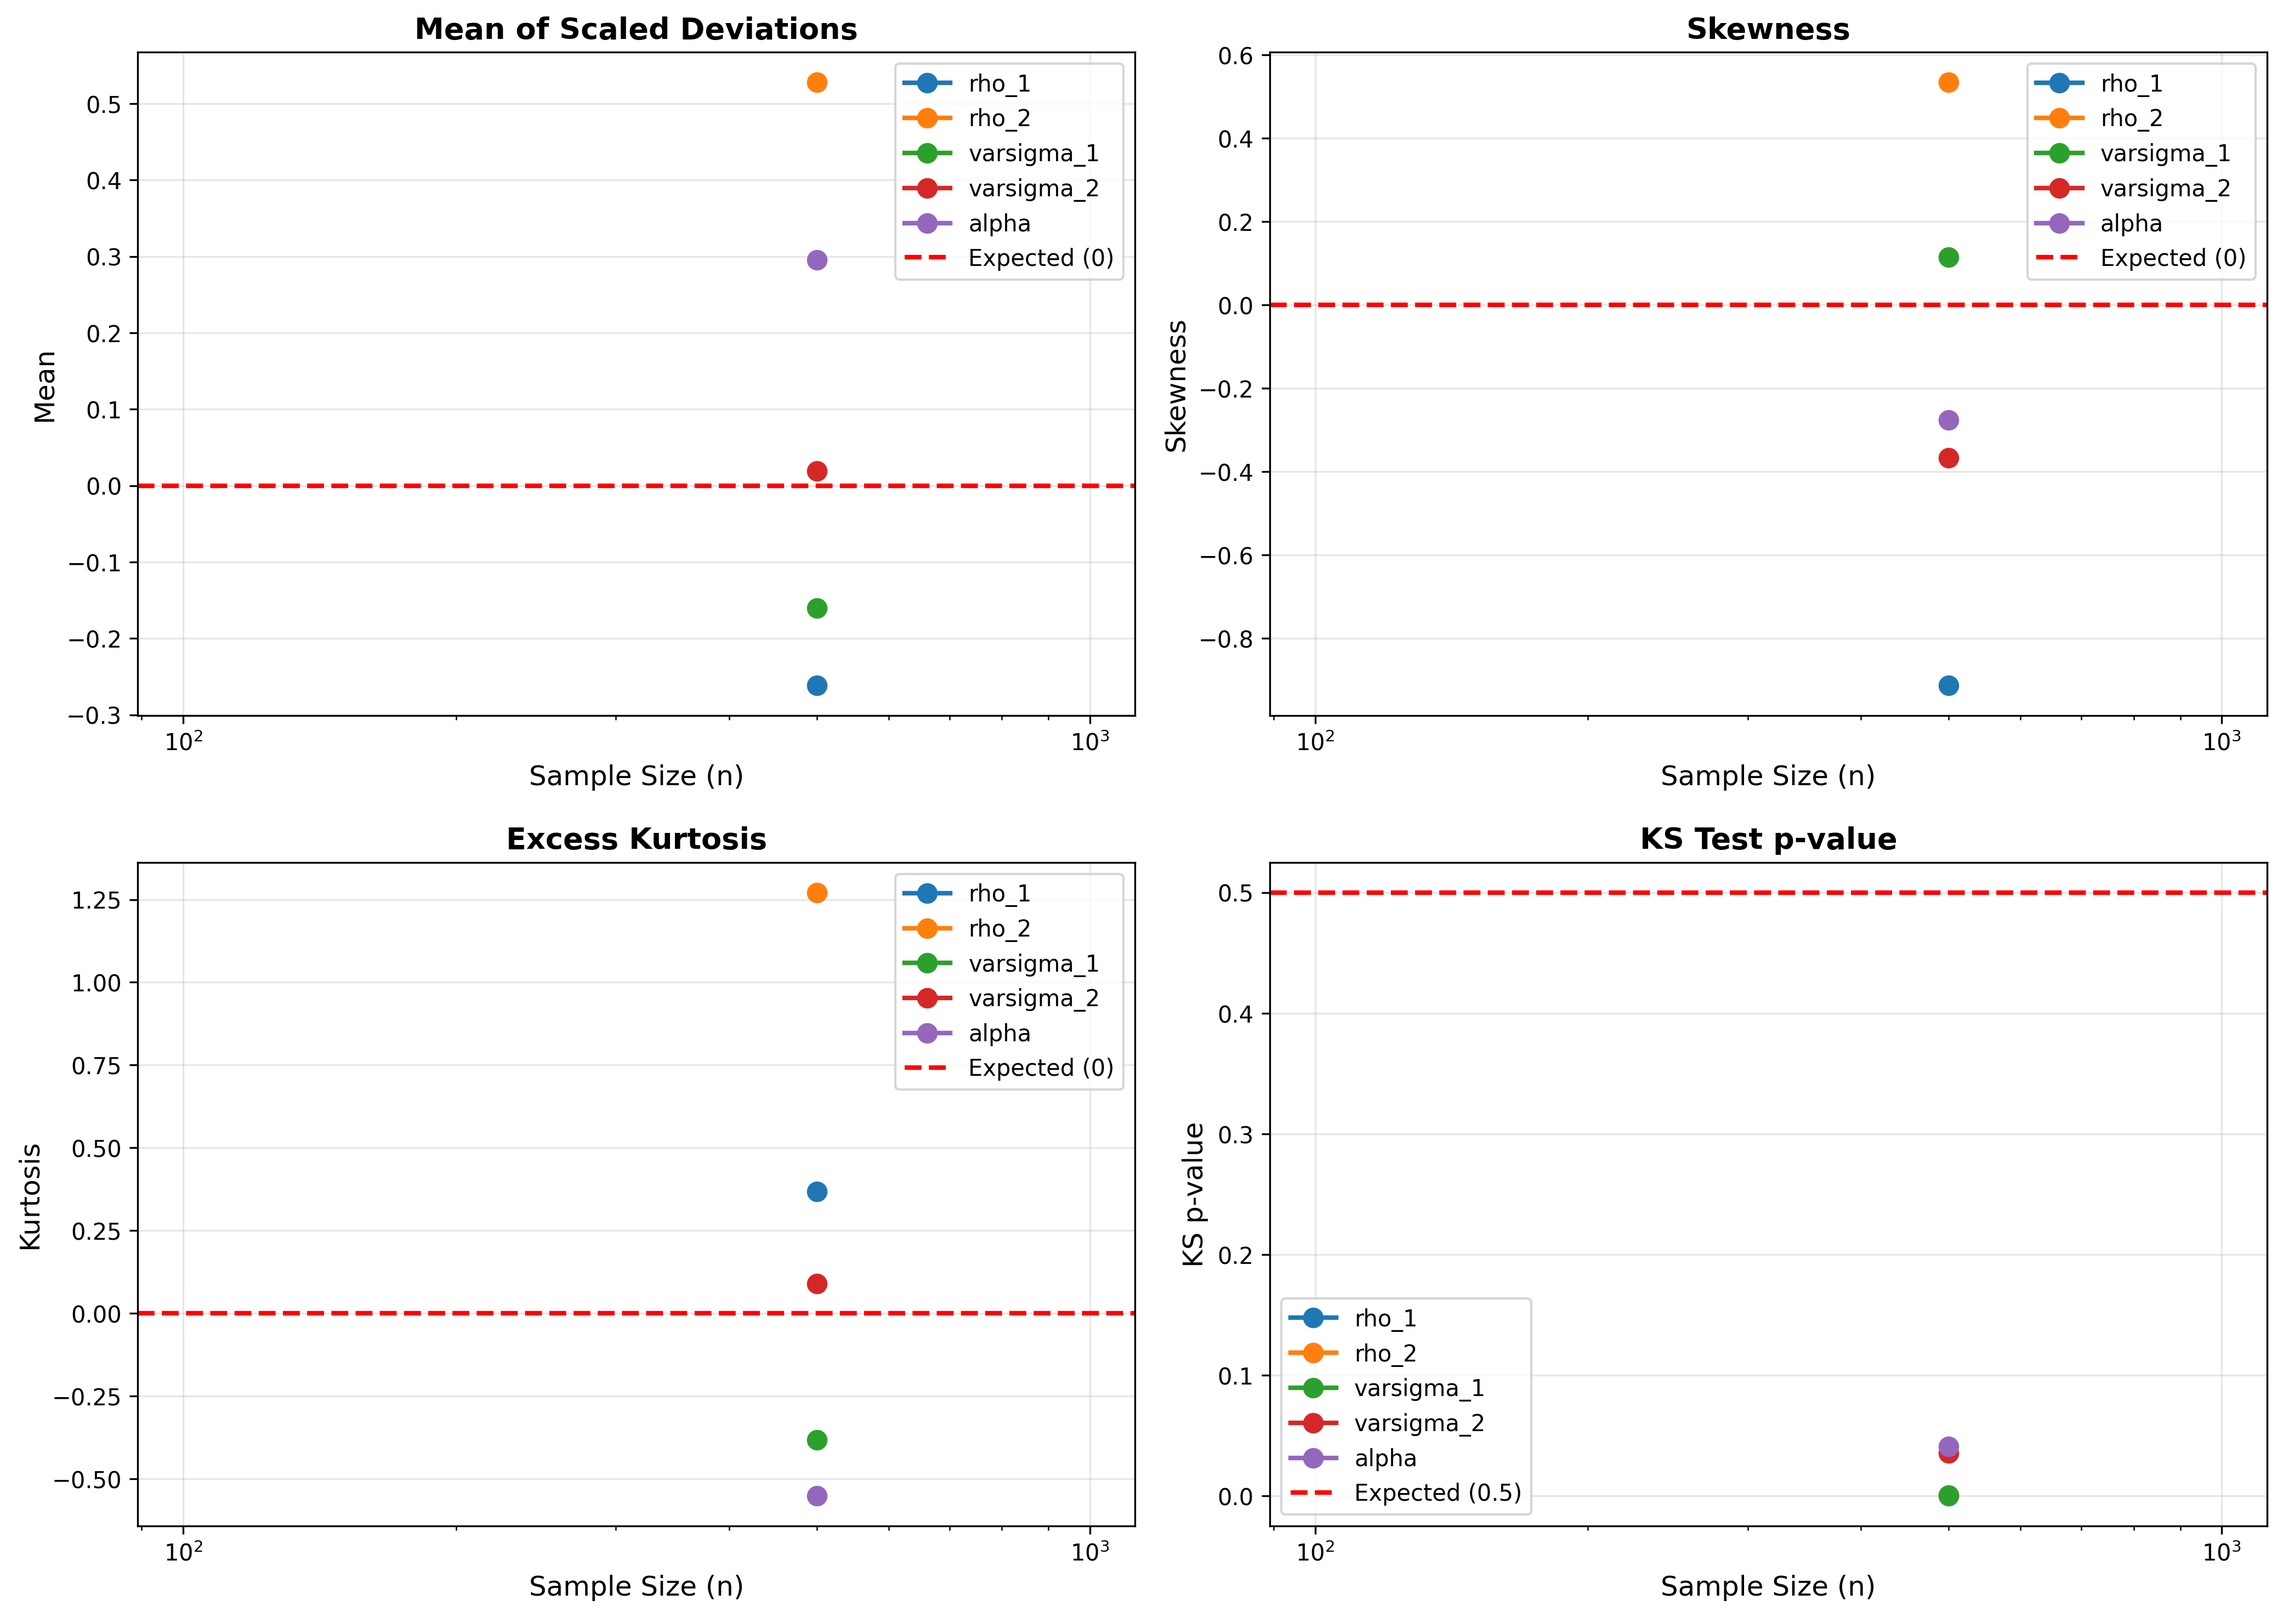
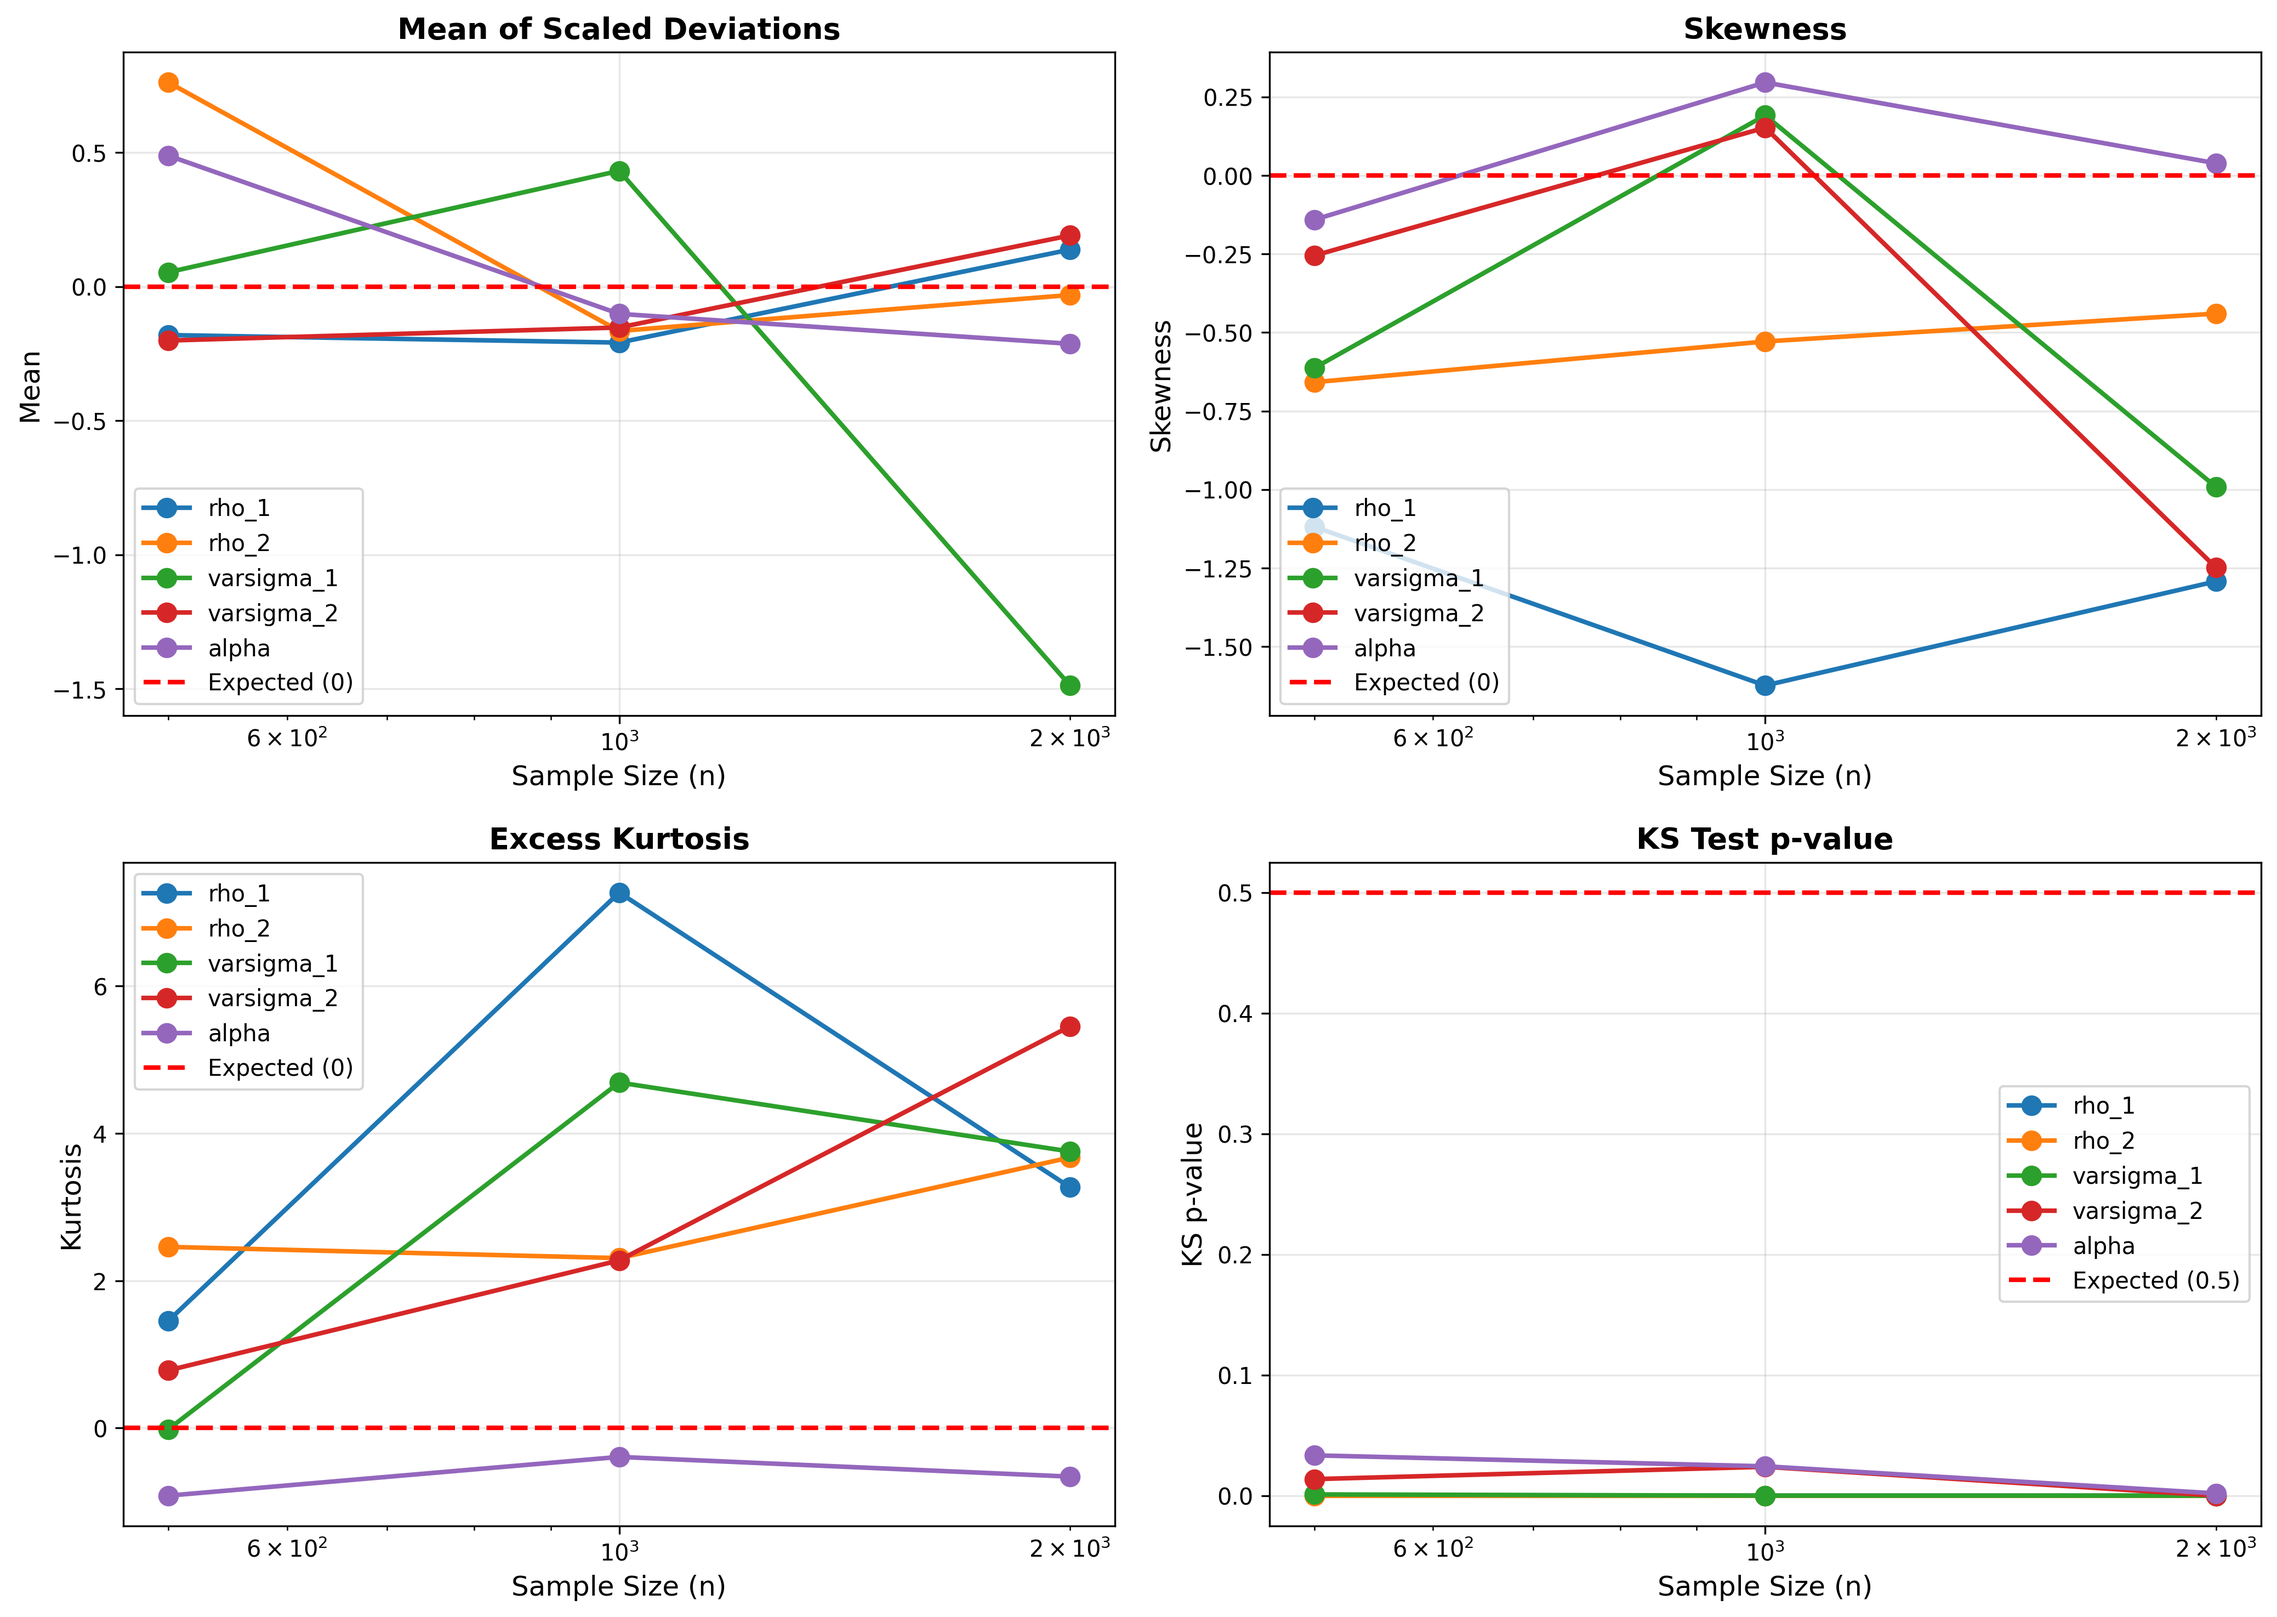
Update

diff --git a/example_execution.py b/example_execution.py
@@ -154,7 +154,7 @@ if run_convergence == 'y':
         #   M=500
         results_conv, summaries_conv = convergence_study(
             sample_sizes=[500, 1000, 2000],  # Reduced for demo
-            M=2,  # Reduced for demo (use 500 for publication)
+            M=500,  # Reduced for demo (use 500 for publication)
             save_dir=output_dir,  # Use output_dir instead of '/outputs'
             n_jobs=-1
         )

diff --git a/subsampling_analysis.py b/subsampling_analysis.py
@@ -12,7 +12,7 @@ import numpy as np
 import pandas as pd
 import matplotlib.pyplot as plt
 from scipy import stats
-from typing import Tuple,List, Dict, Optional
+from typing import List, Dict, Optional
 from joblib import Parallel, delayed
 from stablemixture import StableMixtureDeconvolution
 import warnings
